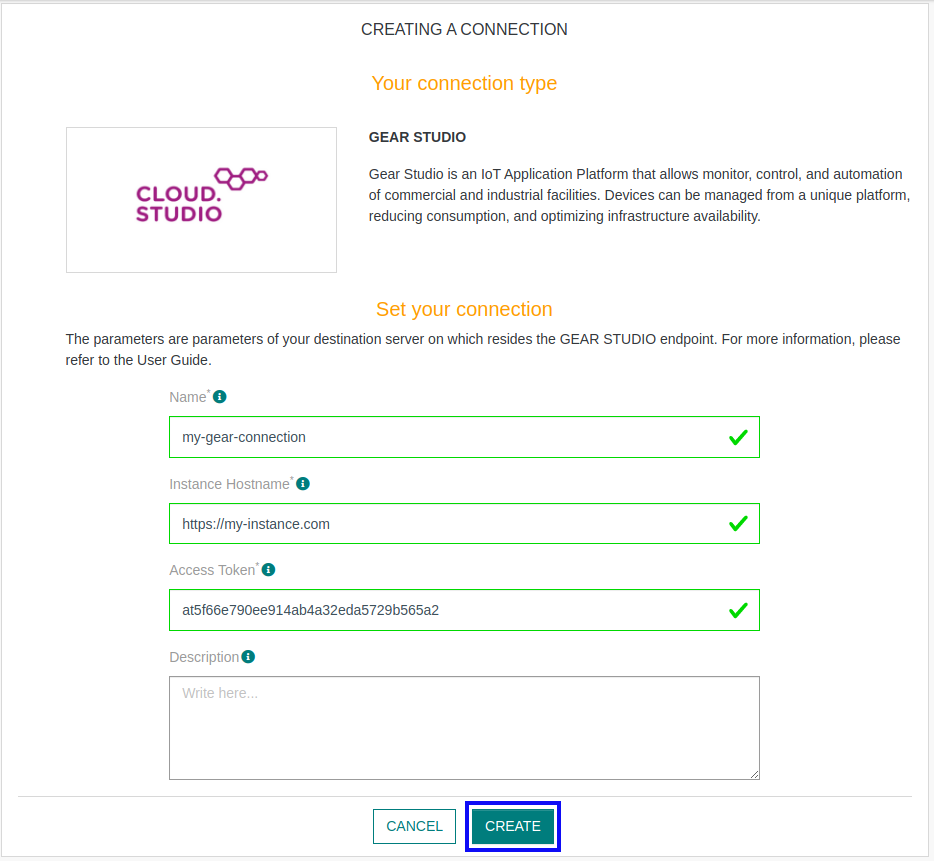
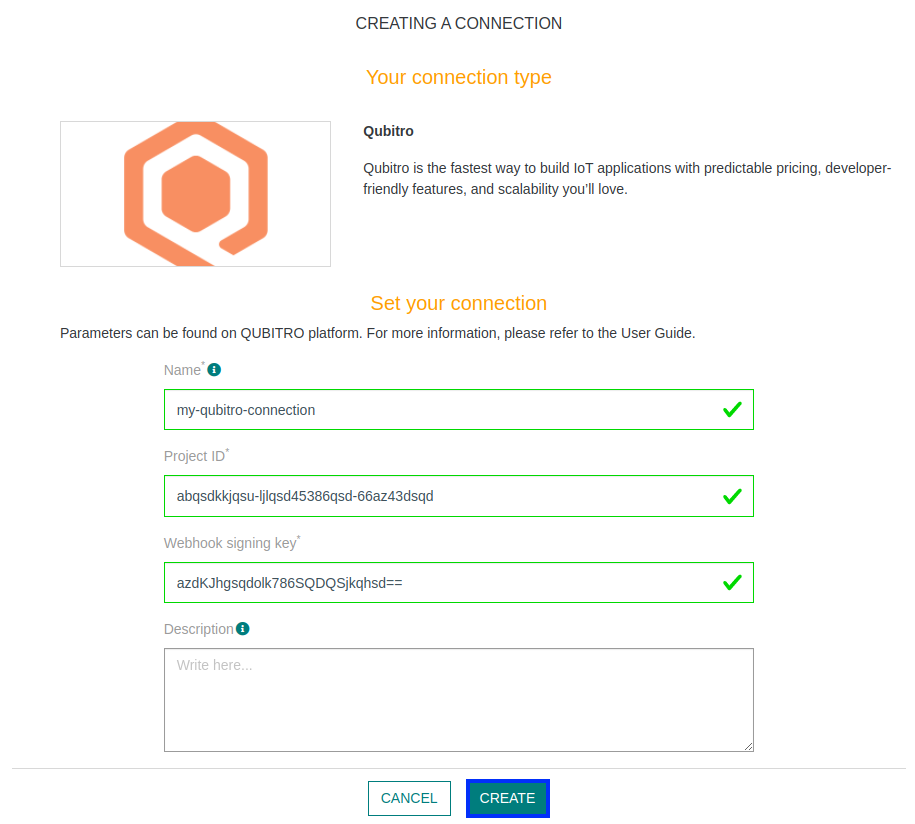
ADD qubitro connector documentation

diff --git a/docs/.vuepress/config.js b/docs/.vuepress/config.js
@@ -320,6 +320,12 @@ module.exports = {
                             path: '/Connector/DATACAKE/',      // optional, link of the title, which should be an absolute path and must exist
                             collapsable: false, // optional, defaults to true
                             sidebarDepth: 1,    // optional, defaults to 1
+                        },
+                        {
+                            title: 'Connecting to QUBITRO',   // required
+                            path: '/Connector/QUBITRO/',      // optional, link of the title, which should be an absolute path and must exist
+                            collapsable: false, // optional, defaults to true
+                            sidebarDepth: 1,    // optional, defaults to 1
                         }
                     ]
                 },

diff --git a/docs/Connector/QUBITRO/README.md b/docs/Connector/QUBITRO/README.md
@@ -2,7 +2,7 @@
 sidebarDepth: 4
 ---
 
-# CREATING A GEAR STUDIO CONNECTION
+# CREATING A QUBITRO CONNECTION
 
 ## Collecting Expected Information
 
@@ -10,16 +10,9 @@ sidebarDepth: 4
 
 | Field | Description |
 | ------ | ----------- |
-| ```Instance hostname``` | URL used when connecting to Gear Studio instance.|
-| ```Access Token``` | Generated in your instance settings.|
+| ```Project ID``` | Get it when creating a device |
+| ```Webhook Signing Key``` | Get it when creating a device |
 
-### Generate Access Token
-
-**Access Token** is a key that will offer you the possibility to authenticate you.
-
-To get it, you must first go to your instance **settings**.
-
-![settings](./images/settings.png)
 ## Creating a Connection With API
 
 The creation of a connection establishes a unidirectional messaging transport link to the cloud provider.
@@ -39,13 +32,16 @@ Example for creation of a new connection instance :
 ```json
 POST /connections
 {
-  "name":"Actility To GearStudio",
+  "name":"Actility to Qubitro",
   "connectorId":"actility-http-iot",
   "configuration": {
-      "instanceHostname":"https://gear.studio.cloud",
-      "accessToken":"at5f66e790ee914ab4a32eda5729b565a2"
+      "destinationURL":"https://webhook.qubitro.com/integrations/actility",
+      "headers": {
+        "projectId":"aa62ebe1-7ff3-4d05-baec-e6ff2edf34a4",
+        "webhookSigningKey":"NGtFMlNZdEZpRVpmeXRMNFJpbVM1THVJa3EzMg=="
+      }
   },
-  "brand":"GEAR_STUDIO"
+  "brand":"QUBITRO"
 }
 ```
 
@@ -54,9 +50,9 @@ The following table lists the properties applicable to a connection instance.
 | Field | Description |
 | ------ | ----------- |
 | ```connectorId``` | Must be set to actility-http-iot for Tago platform. |
-| ```configuration/instanceHostname``` | Must be replaced by your Instance hostname, used when you connect to Gear Studio. |
-| ```configuration/accessToken``` | Must be replaced by your Access Token created in your instance settings. |
-| ```brand``` | Must be set to ```GEAR_STUDIO```. |
+| ```configuration/projectId``` | Must be replaced by your Project ID, found during device creation. |
+| ```configuration/webhookSigningKey``` | Must be replaced by your Webhook Signing Key during device creation. |
+| ```brand``` | Must be set to ```QUBITRO```. |
 
 ::: warning Important note
 All properties are not present in this example. You can check the rest of these properties in the [common parameters section](../../Getting_Started/Setting_Up_A_Connection_instance/About_connections.html#common-parameters).
@@ -68,7 +64,7 @@ All properties are not present in this example. You can check the rest of these 
 ![create](./images/create.png)
 
 
-2. Then, a new page will open. Select the connection type: **Gear Studio**.
+2. Then, a new page will open. Select the connection type: **Qubitro**.
 ![select](./images/select.png)
 
 3. Fill in the form as in the example below and click on **Create**.
@@ -82,127 +78,29 @@ Parameters marked with * are mandatory.
 
 5. After creating the application, you will be redirected to the connection details.
 
-## Gear Studio device configuration
-
-To make your device working in Gear Studio, you have to follow those few steps:
-
-1. Go to your instance settings.
-
-2. Enter in the **Device models**, under **Devices** section. And click the **Add** button.
-
-![device_models](./images/device_models.png)
-
-3. Fill in the form, using your device informations and click the **Save** button.
-
-![creation_device_model](./images/creation_device_model.png)
-
-Your model will now appear in the **Device models** list.
-
-![device_model_list](./images/device_model_list.png)
-
-4. Now, edit this device, and go to the **Scripts** section.
-
-![scripts](./images/scripts.png)
-
-* **Configuration** section permits to create device endpoints, like temperature, humidity or whatever you need.
-
-* **Payload parser** section permits to parse uplinks TPX will send.
-
-Here is an example for both script, for a device collecting **Temperature**, **Humidity**, **Light intensity**, and **Motion**.
-
-```javascript
-Configuration script
-
-
-function getConfiguration(config)
-{
-	 config.addressLabel = {en: "DevEUI", es: "DevEUI"};
-}
-
-function getEndpoints(deviceAddress, endpoints)
-{
-  endpoints.addEndpoint("1", "Temperature sensor", endpointType.temperatureSensor);
-  endpoints.addEndpoint("2", "Humidity sensor", endpointType.humiditySensor);
-  endpoints.addEndpoint("3", "Light sensor", endpointType.lightSensor);
-  endpoints.addEndpoint("4", "Motion sensor", endpointType.iasSensor,iasEndpointSubType.motionSensor);
-}
-
-function validateDeviceAddress(address, result)
-{
-  if (address.length != 16) {
-    result.ok = false;
-    result.errorMessage = {
-      en: "The address must be 16 characters long.",
-      es: "La dirección debe tener exactamente 16 caracteres."
-    };
-  }
-}
-
-function updateDeviceUIRules(device, rules)
-{
-  rules.canCreateEndpoints = false;
-}
-
-function updateEndpointUIRules(endpoint, rules)
-{
-  rules.canDelete = false;
-  rules.canEditSubtype = false;
-}
-```
-
-```javascript
-Payload parser script
-
-function parseUplink(device, payload)
-{
-    var data = payload.asParsedObject();
-    var temperature = data.temperature;
-    var humidity = data.humidity;
-    var light = data.light;
-    var motion = data.motion;
-
-    //update temperature
-    var e = device.endpoints.byType(endpointType.temperatureSensor);
-    if (e != null)
-        e.updateTemperatureSensorStatus(temperature);
-    //update humidity
-    e = device.endpoints.byType(endpointType.humiditySensor);
-    if (e != null)
-        e.updateHumiditySensorStatus(humidity);
-    //update light
-    e = device.endpoints.byType(endpointType.lightSensor);
-    if (e != null)
-        e.updateLightSensorStatus(light);
-    //update motion
-    e = device.endpoints.byType(endpointType.iasSensor);
-    if (e != null)
-        e.updateIASSensorStatus(motion);
-}
-```
-5. After setting up those two scripts, you can click on the **Save** button to register those settings. You can now create your first device from this model.
-
 ## Limitations
 
 Limitations depends on Account Plan you own.
 
 ## Displaying information to know if it worked
 
-1.	Connect to your **Gear Studio** instance, and naviguate to settings.
+1.	Connect to your **Qubitro** account.
 
-2.	Go to **Devices** section and click the **Add** button to create a new **Device**.
+2.  Click on **New project**, chose a **Name** and a **Description**, and then click **Create project**.
+![new_project](./images/new_project.png)
 
+3. Now chose **Actility** connectivity method, and click on **Continue**.
 ![add_device](./images/add_device.png)
 
-3.  Fill the form using the device model created before, the Address field correspond to your **Device EUI** (find it on ThingPark device list)
+4. You now have access to your **Project ID** and **Webhook Signing Key**. Put these informations in Thingpark X Qubitro form.
+![device_info](./images/device_info.png)
 
-![form_device](./images/device_form.png)
-
-4. Using dashboards(it's not automatically created, you must do it by your own), you'll be able to see if you're receiving uplinks from your device created.
-
-![dashboards](./images/dashboards.png)
+5. You'll now be able to see if you received **Devices** messages.
+![data](./images/data.png)
+![device_data](./images/device_data.png)
 
 ## Troubleshooting
 
 As for now, there are no detected bugs.
 
-* Cloud studio Wiki: <https://wiki.cloud.studio/>
+* Qubitro documentation: <https://docs.qubitro.com/integrations/thingpark>

diff --git a/docs/Connector/DATACAKE/README.md b/docs/Connector/DATACAKE/README.md
@@ -68,7 +68,7 @@ All properties are not present in this example. You can check the rest of these 
 ![create](./images/create.png)
 
 
-2. Then, a new page will open. Select the connection type: **Gear Studio**.
+2. Then, a new page will open. Select the connection type: **Datacake**.
 ![select](./images/select.png)
 
 3. Fill in the form as in the example below and click on **Create**.
